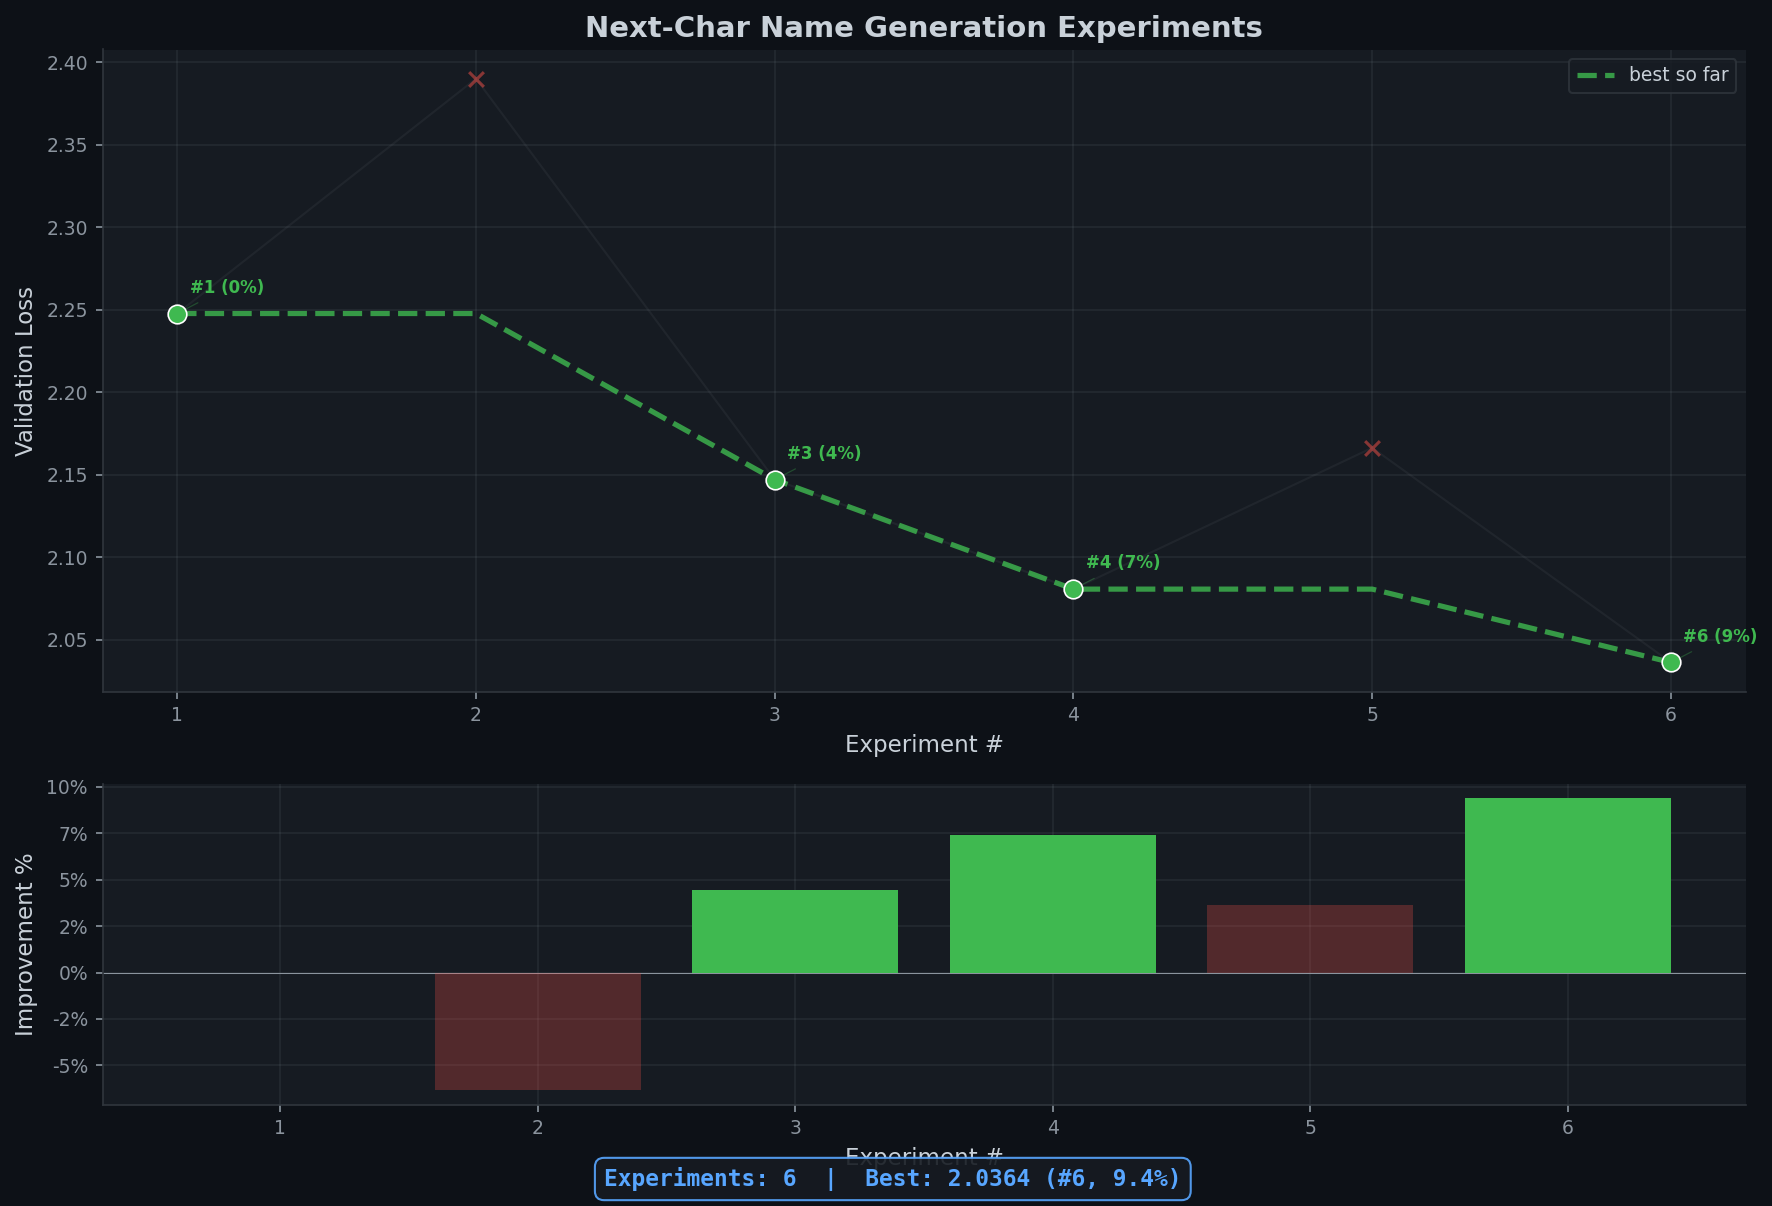
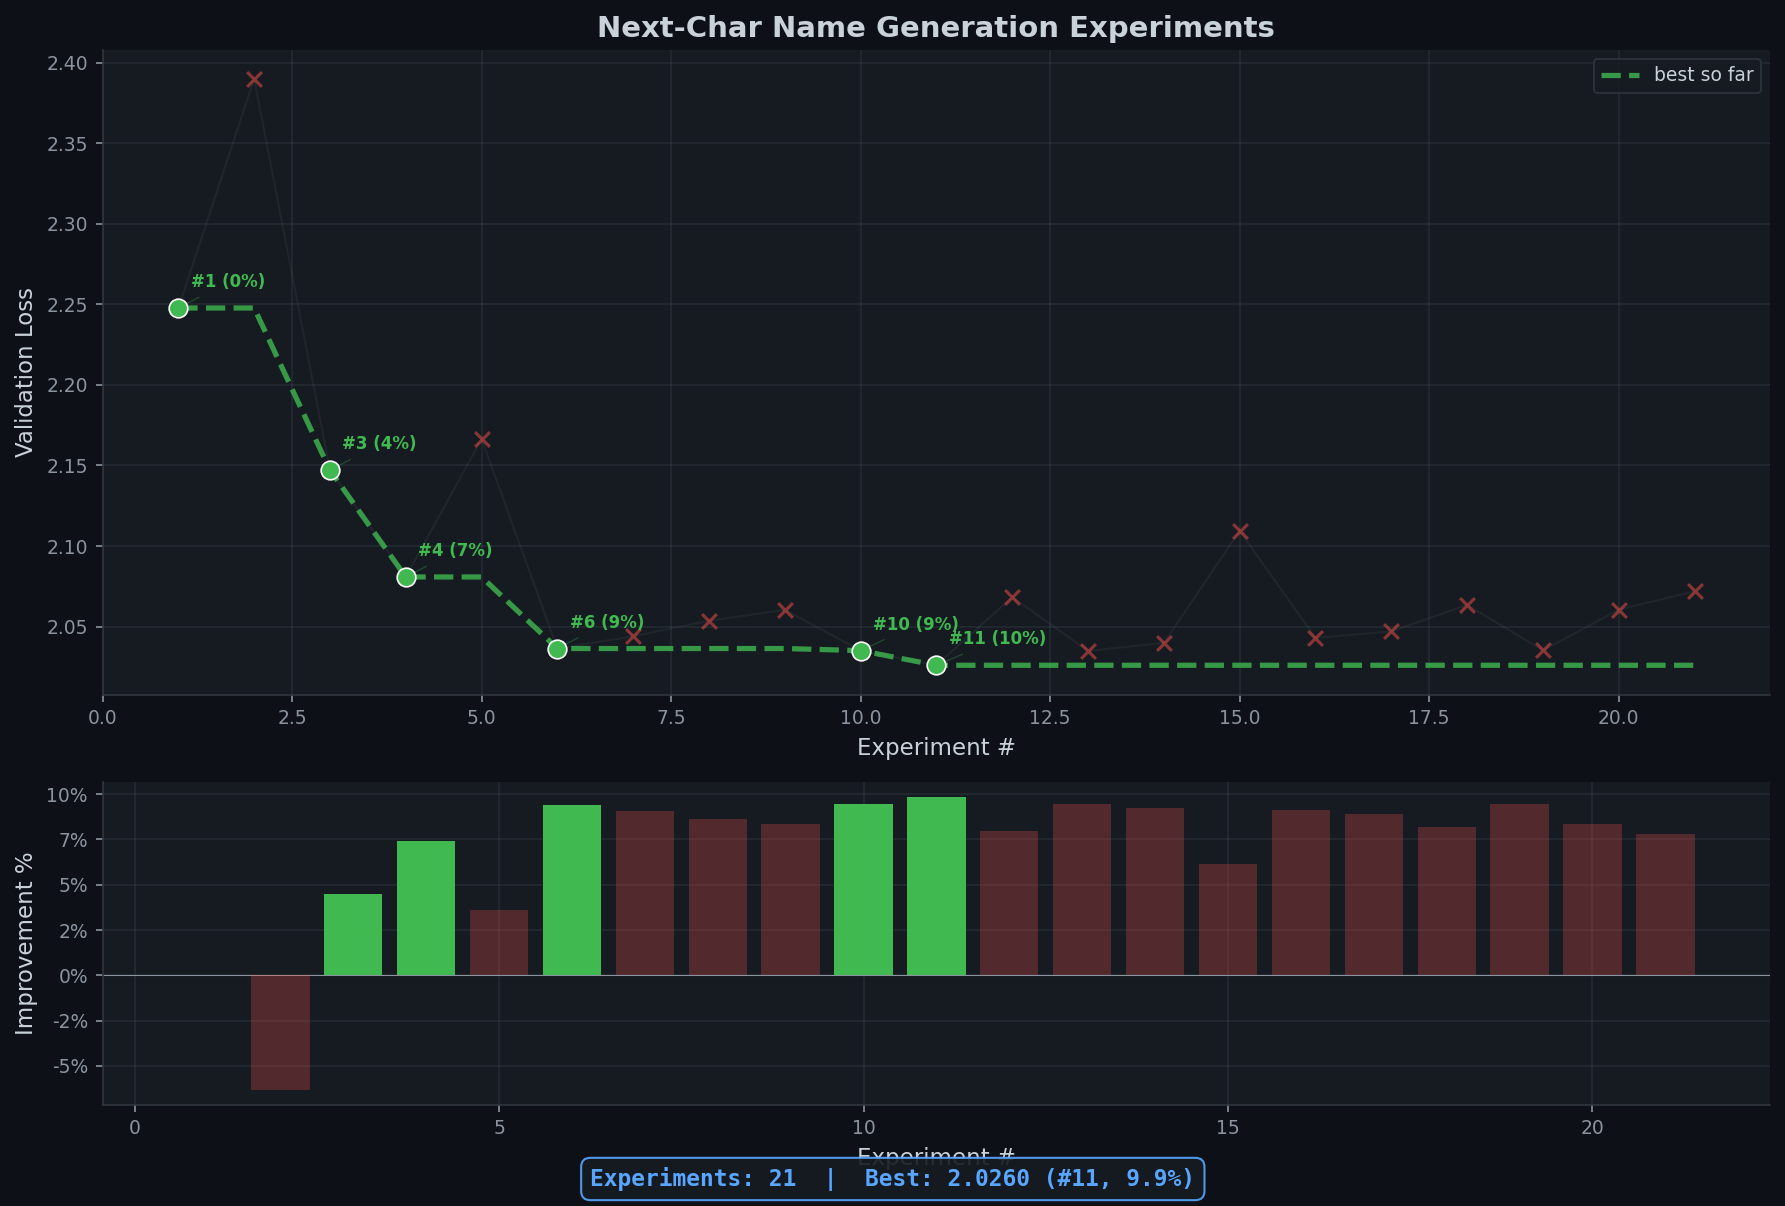
21 experiments: best val_loss=2.0260 (9.9% improvement) with dropout=0.2 wd=0.1

diff --git a/run_experiments.py b/run_experiments.py
@@ -32,27 +32,36 @@ BEST_CONFIG = {
     "N_HIDDEN": 1,
     "BATCH_SIZE": 2048,
     "LEARNING_RATE": 1e-2,
-    "WEIGHT_DECAY": 1e-2,
-    "DROPOUT": 0.0,
+    "WEIGHT_DECAY": 0.1,
+    "DROPOUT": 0.1,
 }
 
 # --- Experiments to run ---
 # Each experiment: (description, {overrides})
 EXPERIMENTS = [
-    # Baseline
-    ("baseline", {}),
-
-    # Final 5 variants based on R1+R2 findings:
-    # V1: Bigram baseline (simplest possible)
-    ("V1 bigram block=1 emb=16 hidden=64", {"BLOCK_SIZE": 1, "EMB_DIM": 16, "HIDDEN_DIM": 64}),
-    # V2: Trigram linear (no hidden layer)
-    ("V2 block=3 emb=16 linear", {"HIDDEN_DIM": 0}),
-    # V3: Best from R2 — higher weight decay
-    ("V3 block=3 emb=16 hidden=128 wd=0.1", {"WEIGHT_DECAY": 0.1}),
-    # V4: Dropout regularization
-    ("V4 block=3 emb=16 hidden=128 drop=0.1", {"DROPOUT": 0.1}),
-    # V5: Combined best settings
-    ("V5 block=3 emb=16 hidden=128 wd=0.1 drop=0.1", {"WEIGHT_DECAY": 0.1, "DROPOUT": 0.1}),
+    # R3: Push from best (wd=0.1, drop=0.1, val=2.0364)
+    # LR sweep around 1e-2
+    ("R3 lr=5e-3", {"LEARNING_RATE": 5e-3}),
+    ("R3 lr=2e-2", {"LEARNING_RATE": 2e-2}),
+    ("R3 lr=3e-2", {"LEARNING_RATE": 3e-2}),
+    # Dropout fine-tune
+    ("R3 drop=0.15", {"DROPOUT": 0.15}),
+    ("R3 drop=0.2", {"DROPOUT": 0.2}),
+    # Weight decay fine-tune
+    ("R3 wd=0.05", {"WEIGHT_DECAY": 0.05}),
+    ("R3 wd=0.2", {"WEIGHT_DECAY": 0.2}),
+    # Context length with regularization
+    ("R3 block=4", {"BLOCK_SIZE": 4}),
+    ("R3 block=5 drop=0.15", {"BLOCK_SIZE": 5, "DROPOUT": 0.15}),
+    # Batch size
+    ("R3 bs=512", {"BATCH_SIZE": 512}),
+    ("R3 bs=1024", {"BATCH_SIZE": 1024}),
+    # Hidden size
+    ("R3 hidden=200", {"HIDDEN_DIM": 200}),
+    ("R3 hidden=64", {"HIDDEN_DIM": 64}),
+    # Embedding dim
+    ("R3 emb=8", {"EMB_DIM": 8}),
+    ("R3 emb=32", {"EMB_DIM": 32}),
 ]
 
 
